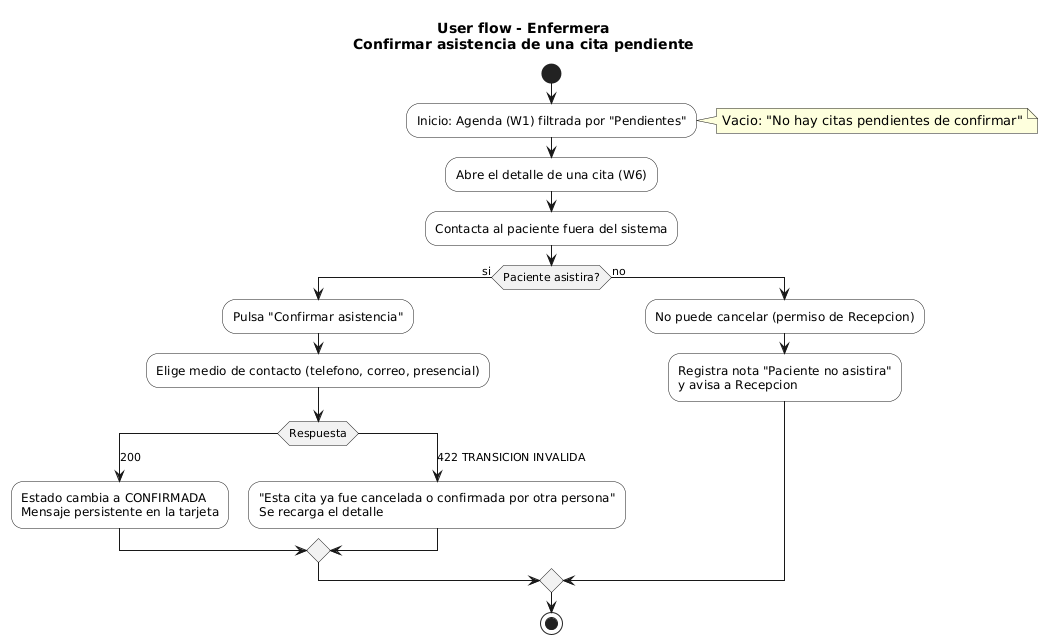
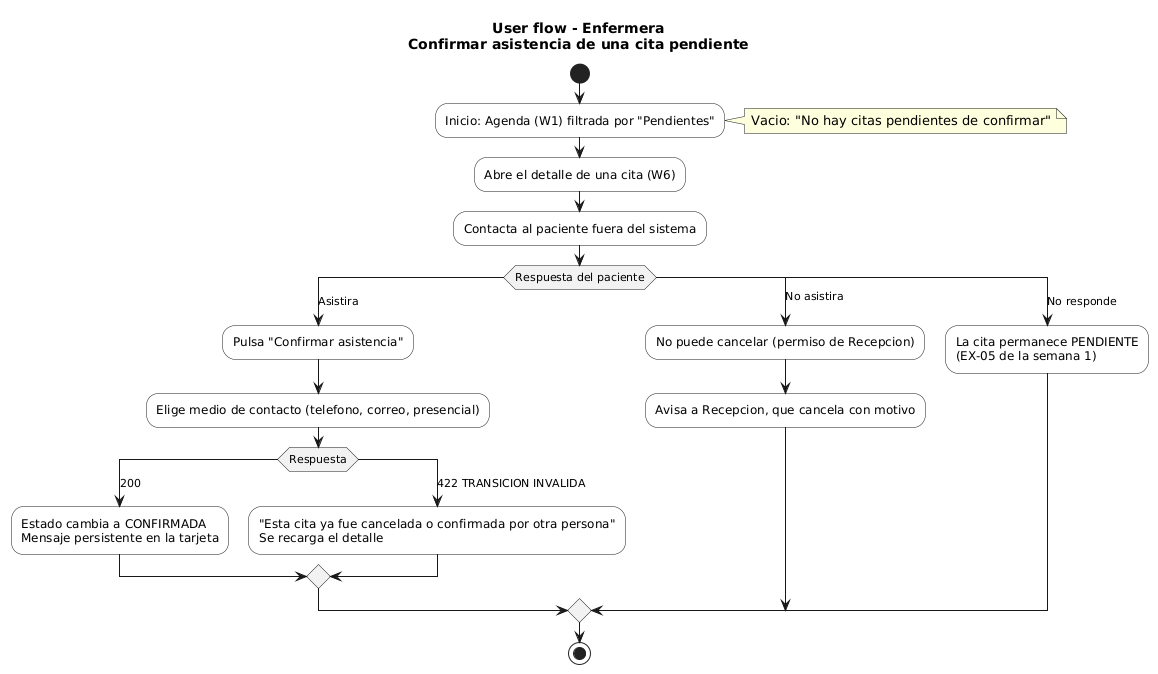
docs(week-08): align flows with week 1 outcomes and add defense guide
Claude-Session: https://claude.ai/code/session_014RXxsV1XqAAnUUTQ3spLue

Changed region(s): [[0.1221, 0.0311, 1.0, 0.7143], [0.0, 0.6832, 0.5802, 0.8696], [0.2748, 0.8696, 0.7634, 0.9938]]

diff --git a/docs/semana-08-ux/DECLARACION_IA.md b/docs/semana-08-ux/DECLARACION_IA.md
@@ -1,41 +1,69 @@
 # Declaración de uso de inteligencia artificial — Semana 8
 
+## Identificación
+
 | Dato | Información |
 |---|---|
 | Módulo | ASII-05 — Citas médicas y agenda |
 | Estudiante | Eddy Adolfo Castro Véliz |
 | Código | 1890-23-16857 |
+| GitHub | EddCastro |
+| Issue | #5 |
 | Semana | 8 — Diseño de experiencia de usuario |
+| Rama | `feature/week-08-ux` |
 
 ## Herramienta utilizada
 
-Claude, de Anthropic, como apoyo al análisis, a la redacción y a la generación
-de diagramas y maquetas.
+Claude, de Anthropic, empleada como apoyo al análisis, al diseño, a la
+redacción y a la generación de diagramas, maquetas y scripts de verificación.
 
-## Propósito
+La herramienta trabajó sobre una copia del repositorio en un entorno aislado.
+La revisión, la publicación de las ramas y la apertura de los pull requests
+corresponden al estudiante.
+
+## Propósito del uso
 
 - Estructurar el user flow de cada rol a partir de la matriz de permisos de la semana 5.
 - Construir los seis wireframes de baja fidelidad en HTML y exportarlos a PNG.
-- Redactar el catálogo de mensajes a partir de los códigos de error del contrato.
+- Redactar el catálogo de mensajes a partir de los códigos de error del contrato de API.
+
+## Prompts relevantes
+
+1. Diseñar el flujo UX de solicitud, validación de disponibilidad y confirmación o cancelación de cita para Recepcionista, Enfermera y Médico, respetando la matriz de roles de la semana 5.
+2. Definir los estados vacío, carga, envío, éxito y error recuperable de cada pantalla.
+3. Construir 6 wireframes anotados con marcadores numerados y notas de estados, mensajes, validaciones y reglas de interacción.
+4. Asociar cada mensaje de error con su código simbólico del contrato de API.
+5. Definir reglas de protección de datos del paciente para la agenda y el detalle de la cita.
 
 ## Contenido aceptado
 
 - Flujo en cuatro pasos con indicador de progreso.
 - Regla de conservar los datos capturados ante cualquier error recuperable.
 - Ofrecer la siguiente fecha con horarios en el estado vacío de la grilla.
+- Minimización de datos en la agenda y DPI enmascarado.
 
 ## Contenido modificado o rechazado
 
 - Se descartó que el Médico pueda cancelar sus propias citas, para respetar la matriz de roles de la semana 5.
 - Se descartó reservar temporalmente el horario al seleccionarlo: agregaría un estado nuevo al módulo, fuera del alcance.
 - Se descartó guardar el borrador en almacenamiento persistente del navegador por contener datos de paciente.
+- Se descartó que la Enfermera registre una nota cuando el paciente no asistirá: el módulo no tiene esa función; avisa a Recepción, que cancela con motivo.
+
+## Errores detectados y corregidos
+
+| Hallazgo | Corrección |
+|---|---|
+| El flujo de la Enfermera no contemplaba al paciente que no responde, previsto como EX-05 en la semana 1. | Se agregó la rama "No responde": la cita permanece pendiente. |
+| Una sintaxis `backward` dentro de un `if` hacía fallar el user flow de Recepción en PlantUML. | Se reescribió con bloques `repeat`; `-checkonly` termina con código 0. |
+| Los marcadores numerados tapaban la primera letra de las etiquetas en los wireframes. | Se desplazaron fuera del elemento y se regeneraron las capturas. |
 
 ## Validación humana
 
-El estudiante verificó que cada acción mostrada corresponda a un endpoint existente, que los roles coincidan con la matriz de permisos y que los mensajes usen los códigos del contrato de API.
+El estudiante verificó que cada acción mostrada corresponda a un endpoint existente, que los roles coincidan con la matriz de permisos, que los mensajes usen los códigos del contrato de API y que los diagramas se validen con `-checkonly` (código de salida `0`). Revisó visualmente cada wireframe.
 
 ## Responsabilidad académica
 
-Las decisiones de diseño y la preparación para la defensa oral corresponden al
-estudiante, quien asume la responsabilidad académica sobre el contenido
+La inteligencia artificial se empleó como herramienta de apoyo. El diseño, las
+decisiones, la validación y la preparación para la defensa oral corresponden
+al estudiante, quien asume la responsabilidad académica sobre el contenido
 entregado.

diff --git a/docs/semana-08-ux/GUIA_DEFENSA_ORAL.md b/docs/semana-08-ux/GUIA_DEFENSA_ORAL.md
@@ -1,0 +1,91 @@
+# Guía de defensa oral — Semana 8, Diseño de experiencia de usuario
+
+## Datos generales
+
+- **Módulo:** ASII-05 — Citas médicas y agenda
+- **Estudiante:** Eddy Adolfo Castro Véliz
+- **Proceso:** Solicitud, validación de disponibilidad y confirmación o cancelación de cita
+
+## 1. ¿Qué se entregó?
+
+Tres user flows (Recepcionista, Enfermera, Cancelación y Médico), seis
+wireframes anotados (W1–W6) y un documento de reglas con estados, mensajes,
+validaciones, ayuda contextual y protección de datos.
+
+## 2. ¿Por qué el flujo por rol y no uno solo?
+
+Porque cada rol tiene permisos distintos según la matriz de la semana 5. La
+Recepción agenda y cancela, la Enfermera confirma y el Médico solo consulta.
+Si un rol viera acciones que no puede ejecutar, el backend las rechazaría con
+403 y el usuario quedaría confundido.
+
+## 3. ¿Por qué cuatro pasos para agendar?
+
+Cada paso corresponde a una validación del backend: paciente (ASII-03),
+médico y especialidad (`DOCTOR_SPECIALTY_MISMATCH`), horario
+(`DOCTOR_OUTSIDE_WORKING_HOURS`, `APPOINTMENT_SLOT_TAKEN`) y motivo. Separarlos
+permite prevenir el error en el paso donde ocurre en lugar de mostrarlo todo al
+final.
+
+## 4. ¿Qué estados de pantalla se diseñaron?
+
+Carga (esqueleto), vacío (con una acción para salir de él), enviando (botón
+deshabilitado), éxito (código de la cita) y error recuperable (con los datos
+conservados).
+
+## 5. ¿Cuál es el error más importante del flujo?
+
+El 409 `APPOINTMENT_SLOT_TAKEN`: otro usuario reservó el horario entre la
+consulta y el envío. Es la consecuencia visible del bloqueo de la semana 6.
+La interfaz regresa a la grilla recargada y conserva paciente, médico y motivo.
+
+## 6. ¿La grilla de horarios reserva el horario?
+
+No. Consultar no reserva. La validación definitiva ocurre al agendar, dentro de
+la transacción con bloqueo del médico y el día. Reservar al seleccionar
+agregaría un estado nuevo al módulo, fuera del alcance.
+
+## 7. ¿Cómo se evita una cita duplicada por doble clic?
+
+El botón se deshabilita al enviar y el reintento usa la misma
+`Idempotency-Key` definida en el contrato de la semana 5.
+
+## 8. ¿Qué pasa si el paciente no contesta?
+
+La cita permanece pendiente, igual que en la excepción EX-05 de la semana 1.
+
+## 9. ¿Cómo se protegen los datos del paciente?
+
+La agenda muestra nombre e iniciales de apellidos, sin DPI, teléfono ni motivo.
+El DPI se enmascara salvo los 4 últimos dígitos. El motivo solo se ve en el
+detalle. Una cita de otro hospital responde 404, igual que una inexistente.
+
+## 10. ¿Por qué no se muestra un mensaje distinto para "no tiene permiso" y "no existe"?
+
+Porque distinguirlos revelaría que la cita existe en otro hospital. Es la
+misma decisión D-20 de la semana 6.
+
+## 11. ¿Estos wireframes ya están implementados?
+
+No. La implementación Laravel se entrega como API sin interfaz. Los wireframes
+describen la interfaz que consumiría esos endpoints.
+
+## Modificación práctica
+
+Podrían pedir agregar al flujo de la Enfermera el caso "la cita ya fue
+cancelada por Recepción mientras la llamaba". El bloque PlantUML sería:
+
+    case (422 TRANSICION INVALIDA)
+      :"Esta cita ya fue cancelada o confirmada por otra persona";
+      :Se recarga el detalle con el estado actual;
+
+Ya está incluido en `user-flow-enfermera.puml`; la modificación consistiría en
+agregar un mensaje equivalente en el wireframe W6 y en el catálogo de
+`reglas-interaccion.md`.
+
+## Resumen para exposición
+
+El flujo se diseñó por rol a partir de la matriz de permisos. Cada paso
+previene un error concreto del contrato de API, y el error de concurrencia se
+trata como recuperable: se informa qué horario se perdió y no se pierde lo
+capturado. Los wireframes son la primera versión y se evalúan en la semana 9.

diff --git a/docs/semana-08-ux/README.md b/docs/semana-08-ux/README.md
@@ -8,6 +8,7 @@ Módulo **ASII-05 — Citas médicas y agenda**.
 | Código | 1890-23-16857 |
 | GitHub | EddCastro |
 | Correo | ecastrov5@miumg.edu.gt |
+| Issue | #5 |
 | Rama | `feature/week-08-ux` |
 
 ## Tarea
@@ -16,6 +17,15 @@ Diseñar el flujo UX de **solicitud, validación de disponibilidad y
 confirmación o cancelación de cita** por sus roles autorizados, con inicio,
 decisión, confirmación, estados vacío/carga/éxito, errores recuperables, ayuda
 contextual y protección de datos.
+
+## Estado del diseño
+
+Es un diseño de experiencia de usuario. La implementación Laravel de las
+semanas 4 a 6 se entrega como API y **no incluye interfaz de usuario**, así
+que ninguna de estas pantallas existe todavía como código del proyecto. Cada
+acción que muestran corresponde a un endpoint que sí existe
+(`POST /appointments`, `PATCH /{id}/confirm`, `PATCH /{id}/cancel`,
+`GET /appointments`).
 
 ## Entregables
 
@@ -26,6 +36,7 @@ contextual y protección de datos.
 | User flow — Cancelación y Médico | [`user-flow-cancelacion-medico.png`](user-flow-cancelacion-medico.png) |
 | 6 wireframes anotados | [`wireframes/`](wireframes) — fuente editable `wireframes.html` |
 | Estados, mensajes, validaciones y reglas de interacción | [`reglas-interaccion.md`](reglas-interaccion.md) |
+| Guía de defensa oral | [`GUIA_DEFENSA_ORAL.md`](GUIA_DEFENSA_ORAL.md) |
 | Declaración de IA | [`DECLARACION_IA.md`](DECLARACION_IA.md) |
 
 ## Wireframes
@@ -41,6 +52,17 @@ contextual y protección de datos.
 
 ![W3](wireframes/W3-disponibilidad.png)
 
+## Coherencia con semanas anteriores
+
+| Elemento | Origen | Cómo se respeta |
+|---|---|---|
+| Roles y permisos | Matriz de la semana 5 | Cada rol ve solo las acciones que su permiso admite |
+| Actores | Narrativa de la semana 1 | La Enfermera contacta al paciente y registra el medio de contacto |
+| Paciente sin respuesta | EX-05 de la semana 1 | La cita permanece pendiente |
+| Estados | Dominio de la semana 4 | Pendiente, confirmada y cancelada, con las mismas transiciones |
+| Mensajes de error | Códigos del contrato de la semana 5 | Un mensaje por código simbólico |
+| Concurrencia | Cambio práctico de la semana 6 | El 409 se diseña como error recuperable |
+
 ## Relación con la semana 7
 
 Cada pantalla usa los componentes definidos la semana anterior:
@@ -53,6 +75,31 @@ emite el `ErrorMapper`.
 Estos wireframes son la **primera versión**. La semana 9 los evalúa con
 heurísticas y WCAG, y las correcciones priorizadas se aplican en las semanas
 10 y 11.
+
+## Alcance de la entrega
+
+Incluye:
+
+- User flow de los tres roles que participan en el flujo asignado.
+- Seis wireframes de baja fidelidad con anotaciones.
+- Estados vacío, carga, envío, éxito y error recuperable.
+- Catálogo de mensajes ligado a los códigos del contrato.
+- Reglas de interacción, ayuda contextual y protección de datos.
+
+No incluye:
+
+- Reagendamiento, lista de espera ni consulta por rango de fechas.
+- Envío de notificaciones, que corresponde a ASII-21.
+- Registro de pacientes, que corresponde a ASII-03.
+- Diseño visual definitivo, que corresponde a ASII-26.
+
+## Validación
+
+```powershell
+java -jar "$HOME\Tools\PlantUML\plantuml.jar" -checkonly ".\docs\semana-08-ux\*.puml"
+```
+
+El comando finalizó con código de salida `0`.
 
 ## Regenerar las imágenes
 
